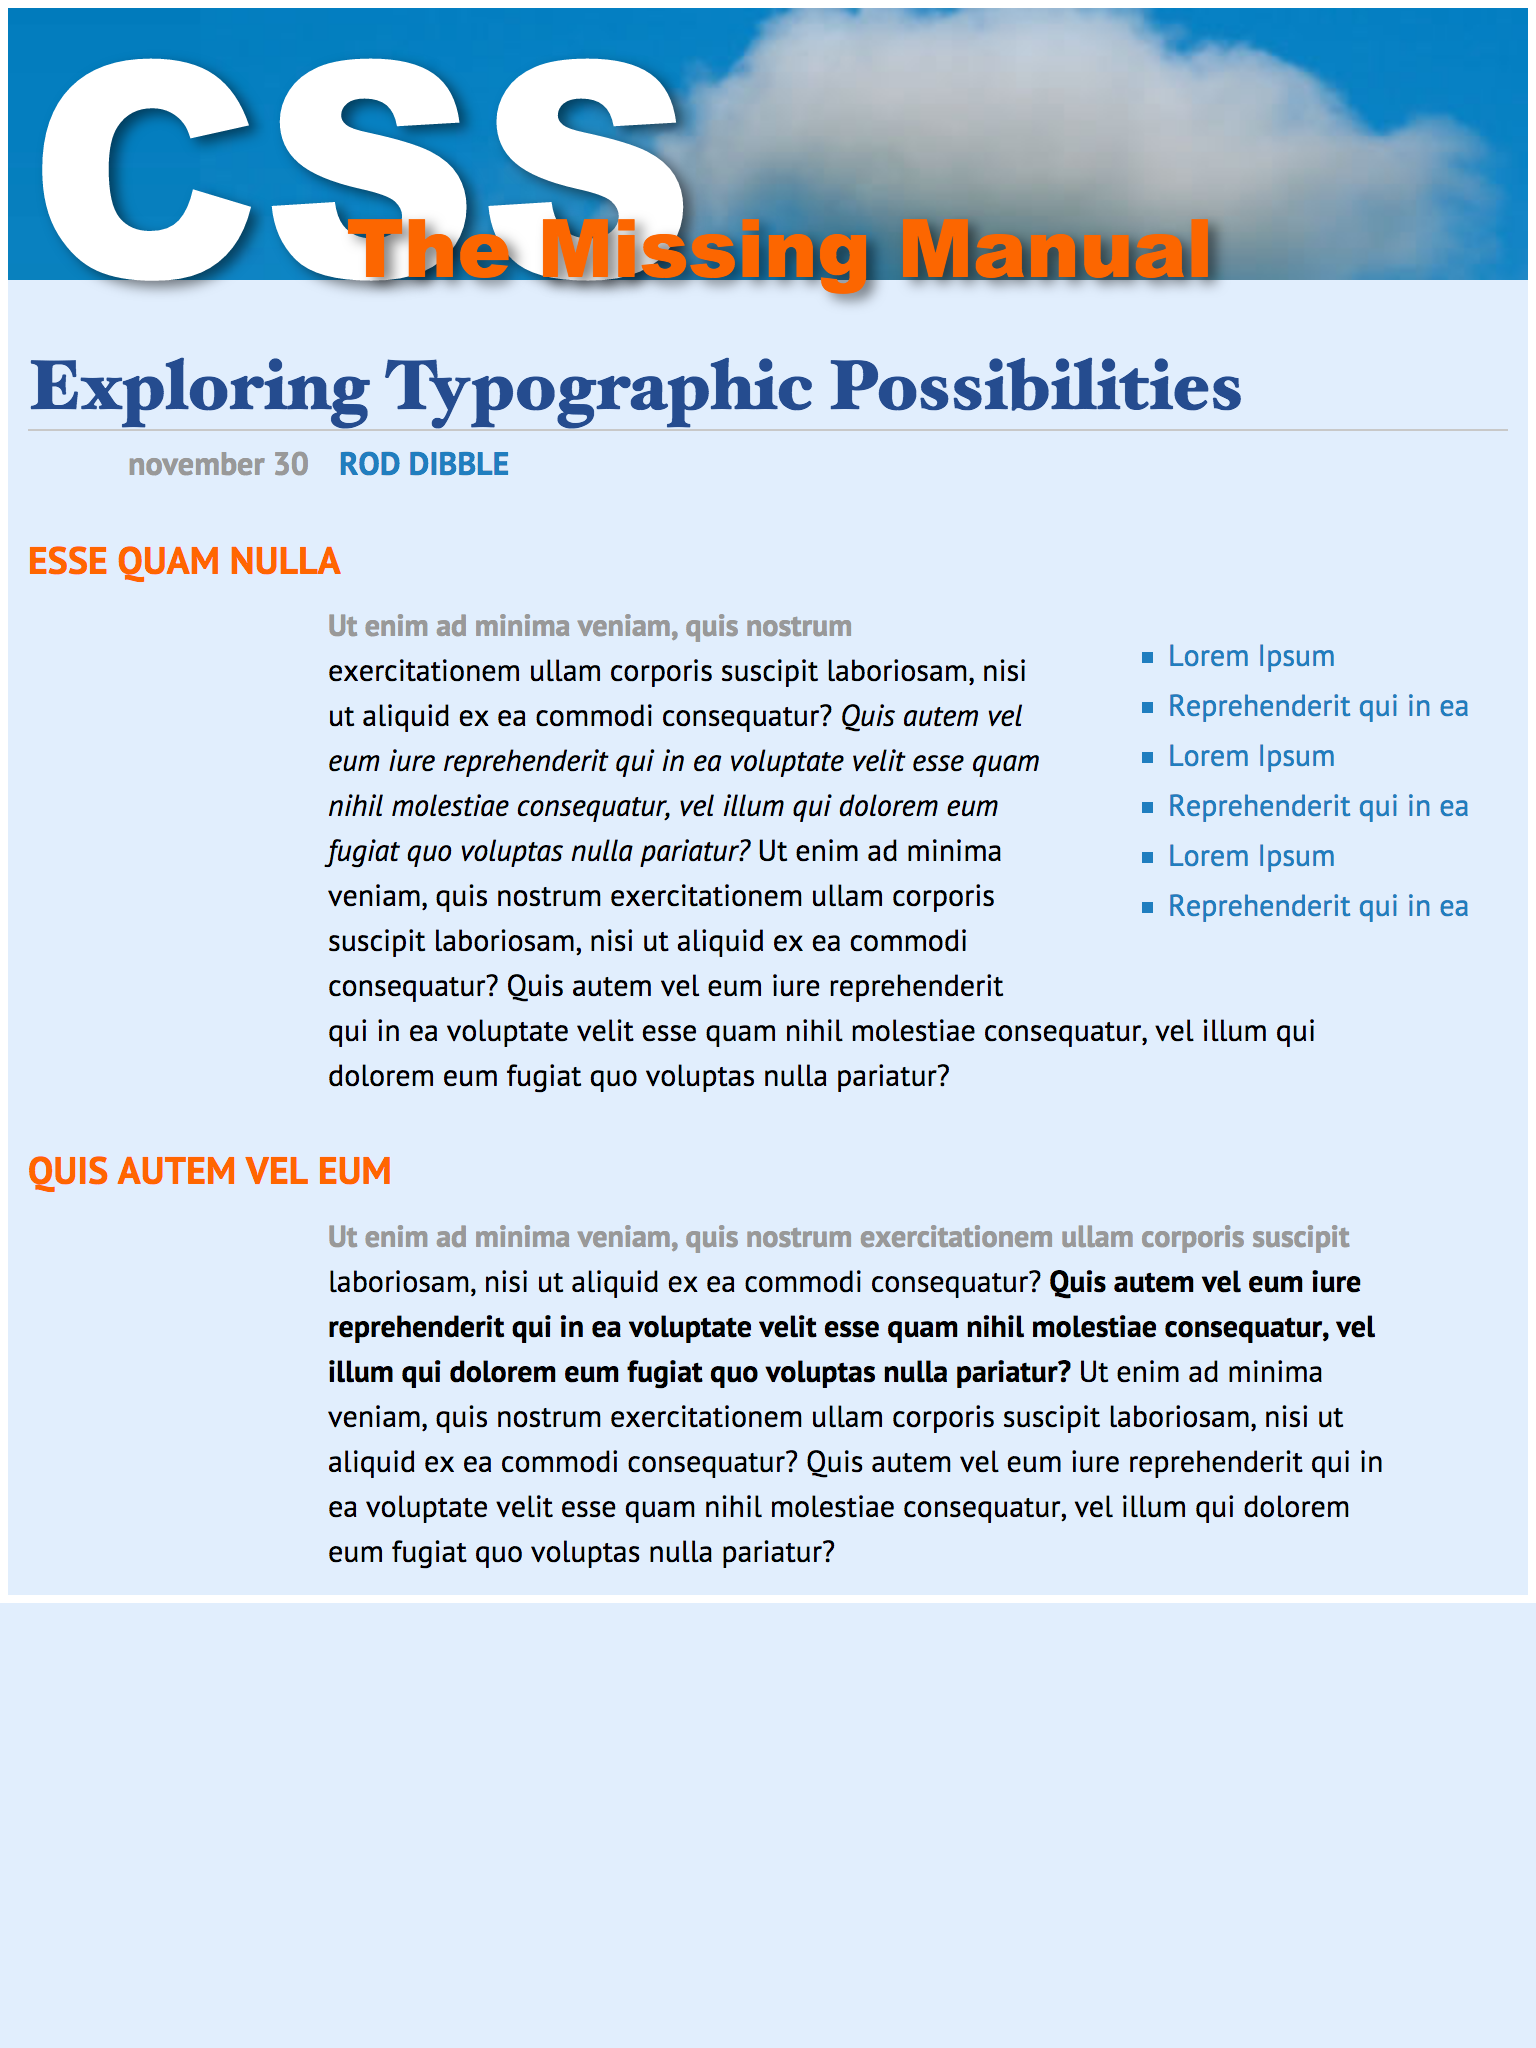
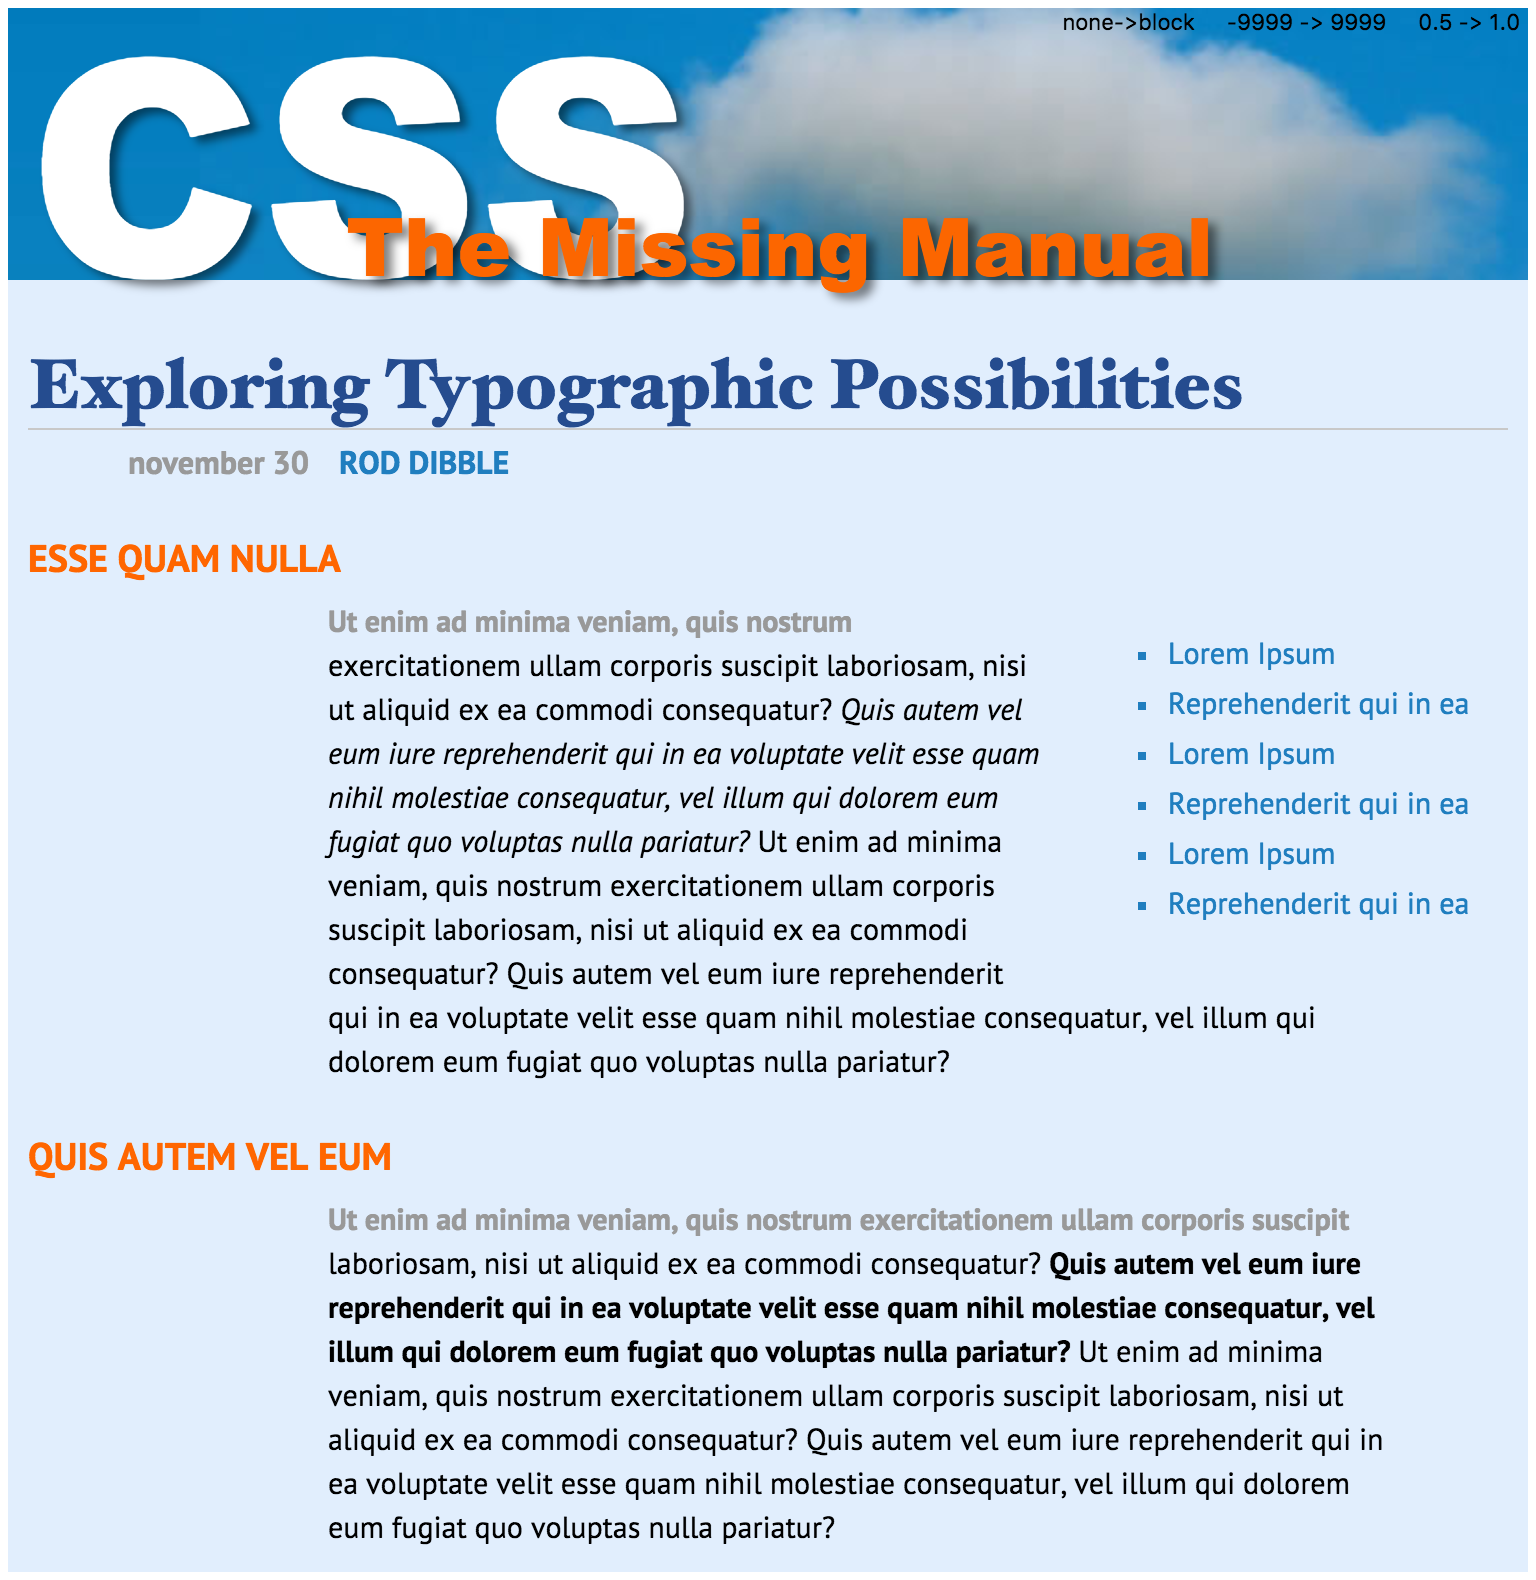
submit thatseeyou

Changed region(s): [[0.0, 0.0, 1.0, 1.0], [0.9375, 0.0, 1.0, 0.031], [0.5938, 0.0, 0.625, 0.031]]

diff --git a/docs/06/thatseeyou/text.html b/docs/06/thatseeyou/text.html
@@ -4,17 +4,117 @@
 <meta charset="UTF-8">
 <title>CSS Typography</title>
 <link href="reset.css" rel="stylesheet">
+<link href="../finalcapture.css" rel="stylesheet">
 <style>
-	.final {
-		position: absolute;
-		opacity: 0.4;
+	@font-face { 
+		font-family: "PTSans"; 
+		font-style: normal; 
+		font-weight: normal; 
+		src: url("fonts/PTSansRegular.eot?#iefix") format("embedded-opentype"), url("fonts/PTSansRegular.woff") format("woff"), url("fonts/PTSansRegular.ttf") format("truetype"), url("fonts/PTSansRegular.svg") format("svg"); 
+	}
+	@font-face { 
+		font-family: "PTSans"; 
+		font-style: normal; 
+		font-weight: bold; 
+		src: url("fonts/PTSansBold.eot?#iefix") format("embedded-opentype"), url("fonts/PTSansBold.woff") format("woff"), url("fonts/PTSansBold.ttf") format("truetype"), url("fonts/PTSansBold.svg") format("svg"); 
+	}
+	@font-face { 
+		font-family: "PTSans"; 
+		font-style: italic; 
+		font-weight: normal; 
+		src: url("fonts/PTSansItalic.eot?#iefix") format("embedded-opentype"), url("fonts/PTSansItalic.woff") format("woff"), url("fonts/PTSansItalic.ttf") format("truetype"), url("fonts/PTSansItalic.svg") format("svg"); 
+	}
+	html {
+ 		background: rgb(225,238,253) url(images/bg_body.png) repeat-x;
+	}
+	.main {
+		font-family: PTSans, Arial, sans-serif;
+		box-sizing: border-box;
+		border: 4px white solid;
+		width: 768px;
+		margin: 0 auto;
+		padding: 0px 8px;
+		background: transparent url("images/bg_banner.jpg") no-repeat;
+	}
+	.main h1 {
+		position: relative;
+/* 		margin-left: -190px; */
+		text-indent: -185px;
+		line-height: 1.0;
+		font-family: "Arial black", Helvetica, sans-serif;
+		font-size: 40px;
+		color: #f60;
+		z-index: 0;
+		text-shadow: 4px 3px 5px rgba(80,80,80,0.8);
+	}
+	.main h1 strong {
+		position: relative;
+/* 		left: -188px; */
+		left: 188px;
+		z-index: -1;
+		color: white;
+		font-size: 150px;
+		text-shadow: 5px 3px 5px rgba(70,70,70,0.8);
+	}
+	/* Exploring Typography Possibilities */
+	.main h2 {
+		margin: 25px 2.5px 0 2.5px;
+		font-family: "Hoefler Text", Garamond, Times, serif;
+		font-size: 35px;
+		font-weight: bold;
+		color: rgb(37,76,143);
+		border-bottom: 1px solid rgb(200,200,200);
+	}
+	/* november 30 */
+	.main h2 + p {
+		margin: 9px 0 31px 0;
+		text-indent: 52px;
+		font-size: 1em;
+		font-weight: bold;
+		text-transform: lowercase;
+		color: rgb(153,153,153);
+	}
+	/* ROD DIBBLE */
+	.main h2 + p strong {
+		position: relative;
+		left: 11px;
+		text-transform: uppercase;
+		color: #207ebf;
+	}
+
+	.main ul {
+		float: right;
+		margin: 49px 1px 20px 40px;
+		width: 170px;
+		font-size: 15px;
+		color: #207ebf;
+		list-style: square;
+	}
+	.main ul > li {
+		margin-bottom: 10px;
+	}
+
+	/* ESSE QUAM NULLA */
+	.main h3 {
+		margin: 26px 0px 11px 2px;
+		font-size: 19px;
+		color: #f60;
+		text-transform: uppercase;
+	}
+	.main h3 + p::first-line {
+		font-weight: bold;
+		color: rgb(153,153,153);
+	}
+	.main h3 + p {
+		margin: 0 60px 9px 153px;
+		line-height: 22px;
+		font-size: 15px;
 	}
 </style>
 
 </head>
 <body>
 <div class="main">
-	<img class="final" src="final.png"></img>
 	<h1><strong>CSS</strong> The Missing Manual</h1>
 	<h2>Exploring Typographic Possibilities</h2>
 	<p>november 30 <strong>Rod Dibble</strong></p>
@@ -31,5 +131,6 @@
 	<h3>Quis autem vel eum</h3>
 	<p>Ut enim ad minima veniam, quis nostrum exercitationem ullam corporis suscipit laboriosam, nisi ut aliquid ex ea commodi consequatur? <strong>Quis autem vel eum iure reprehenderit qui in ea voluptate velit esse quam nihil molestiae consequatur, vel illum qui dolorem eum fugiat quo voluptas nulla pariatur? </strong>Ut enim ad minima veniam, quis nostrum exercitationem ullam corporis suscipit laboriosam, nisi ut aliquid ex ea commodi consequatur? Quis autem vel eum iure reprehenderit qui in ea voluptate velit esse quam nihil molestiae consequatur, vel illum qui dolorem eum fugiat quo voluptas nulla pariatur?</p>
 </div>
+<script src="../finalcapture.js" type="text/javascript"></script>
 </body>
 </html>

diff --git a/docs/06/finalcapture.js b/docs/06/finalcapture.js
@@ -1,0 +1,51 @@
+addButtons();
+
+var finalcapture = document.querySelector("#finalcapture");
+var displayButton = document.querySelector("#ccDisplay");
+var zIndexButton = document.querySelector("#ccZIndex");
+var opacityButton = document.querySelector("#ccOpacity");
+displayButton.addEventListener('click', displayClicked);
+zIndexButton.addEventListener('click', zIndexClicked);
+opacityButton.addEventListener('click', opacityClicked);
+
+updateButtonText();
+
+function addButtons() {
+    var div1 = document.createElement('div');
+    var div2 = document.createElement('div');
+    div1.innerHTML = '<div id="finalcapture"></div>';
+    div2.innerHTML = '<div id="capturecontrols"><button id="ccDisplay">display</button><button id="ccZIndex">zIndex</button><button id="ccOpacity">opacity</button></div>';
+
+    document.body.insertBefore(div2, document.body.firstChild);
+    document.body.insertBefore(div1, document.body.firstChild);
+}
+
+function updateButtonText() {
+    var display = window.getComputedStyle(finalcapture).display;
+    var zIndex = parseInt(window.getComputedStyle(finalcapture).zIndex);
+    var opacity = parseFloat(window.getComputedStyle(finalcapture).opacity);
+
+    displayButton.textContent = display == "none" ? "none->block" : "block->none";
+    zIndexButton.textContent = zIndex > 0 ? "9999 -> -9999" : "-9999 -> 9999";
+    opacityButton.textContent = opacity < 1.0 ? "0.5 -> 1.0" : "1.0 -> 0.5";
+}
+
+function displayClicked() {
+    console.log('display clicked');
+    console.dir(finalcapture.style);
+    var display = window.getComputedStyle(finalcapture).display;
+    finalcapture.style.display = display == "none" ? "block" : "none";
+    updateButtonText();
+}
+function zIndexClicked() {
+    console.log('zIndex clicked');
+    var zIndex = parseInt(window.getComputedStyle(finalcapture).zIndex);
+    finalcapture.style.zIndex = zIndex > 0 ? "-9999" : "9999";
+    updateButtonText();
+}
+function opacityClicked() {
+    console.log('opacity clicked');
+    var opacity = parseFloat(window.getComputedStyle(finalcapture).opacity);
+    finalcapture.style.opacity = opacity < 1.0 ? "1.0" : "0.5";
+    updateButtonText();
+}

diff --git a/docs/06/final/text.html b/docs/06/final/text.html
@@ -2,7 +2,9 @@
 <html>
 <head>
 <meta charset="UTF-8">
+<meta name="viewport" content="width=device-width, initial-scale=1">
 <title>CSS Typography</title>
+<link href="../finalcapture.css" rel="stylesheet">
 <style>
 /* reset browser styles */
 html, body, div, span, object, iframe, h1, h2, h3, h4, h5, h6, p, blockquote, pre, a, abbr, acronym, address, big, cite, code, del, dfn, em, img, ins, kbd, q, s, samp,small, strike, strong, sub, sup, tt, var, b, u, i, center, dl, dt, dd, ol, ul, li, fieldset, form, label, legend,
@@ -166,5 +168,6 @@ html {
 	<h3>Quis autem vel eum</h3>
 	<p>Ut enim ad minima veniam, quis nostrum exercitationem ullam corporis suscipit laboriosam, nisi ut aliquid ex ea commodi consequatur? <strong>Quis autem vel eum iure reprehenderit qui in ea voluptate velit esse quam nihil molestiae consequatur, vel illum qui dolorem eum fugiat quo voluptas nulla pariatur? </strong>Ut enim ad minima veniam, quis nostrum exercitationem ullam corporis suscipit laboriosam, nisi ut aliquid ex ea commodi consequatur? Quis autem vel eum iure reprehenderit qui in ea voluptate velit esse quam nihil molestiae consequatur, vel illum qui dolorem eum fugiat quo voluptas nulla pariatur?</p>
 </div>
+<script src="../finalcapture.js" type="text/javascript"></script>
 </body>
 </html>

diff --git a/docs/06/finalcapture.css b/docs/06/finalcapture.css
@@ -1,0 +1,19 @@
+#finalcapture {
+    display: none;
+    position: absolute;
+    left: 0;
+    right: 0;
+    margin: 0 auto;
+    width: 768px;
+    height: 1024px;
+    opacity: 0.4;
+    z-index: -100;
+    background: gray url(finalcapture.png) no-repeat;
+    background-size: 768px;
+}
+#capturecontrols {
+    position: fixed;
+    top: 0;
+    right: 0;
+    z-Index: 999999;
+}

diff --git a/docs/06/index.html b/docs/06/index.html
@@ -18,7 +18,7 @@
       <li><a href="kser3221/text.html">최가희</a></li>
       <li><a href="thatseeyou/text.html">오상영</a></li>
       <li><a href="start/text.html">시작</a></li>
-      <li><a href="finished/text.html">최종</a></li>
+      <li><a href="final/text.html">최종</a></li>
     </ul>
   </body>
 

diff --git a/docs/06/thatseeyou/reset.css b/docs/06/thatseeyou/reset.css
@@ -13,7 +13,7 @@ article, aside, details, figcaption, figure, footer, header, hgroup, menu, nav, 
 	display: block;
 }
 body {
-	line-height: 1.2;
+	line-height: 1;
 }
 ol { 
 	padding-left: 1.4em;
